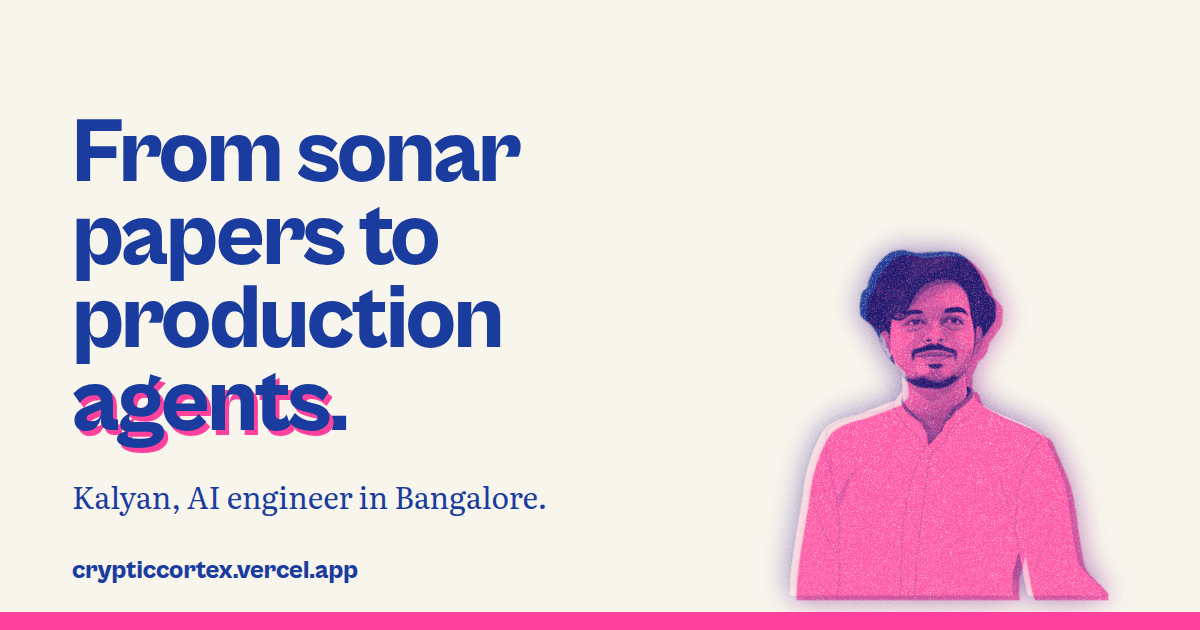
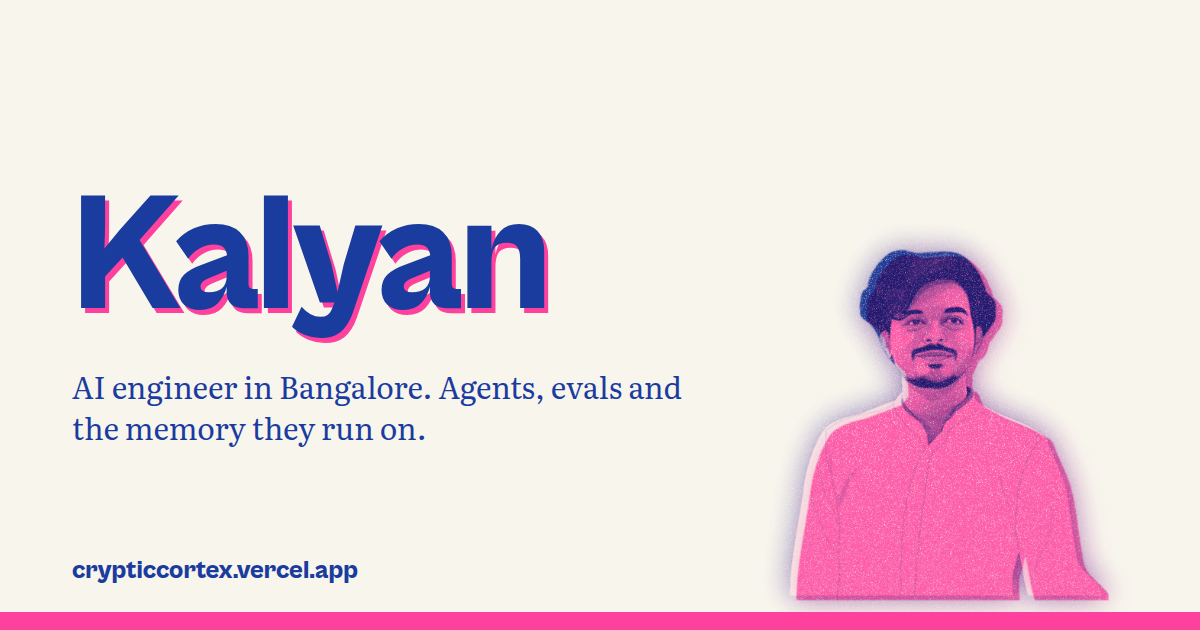
Portfolio structure instead of a product page
- Hero leads with the name (misregistered) and the portrait; no sales buttons
- Selected work as a numbered gallery of four riso covers, then a plain list
  of the other projects
- Experience, research and recognition read as a CV; ticker, the 80% poster
  figure and the chapter headlines are gone
- Close says hello; share card leads with the name

Changed region(s): [[0.0617, 0.181, 0.5858, 0.7238], [0.0617, 0.754, 0.4625, 0.8143]]

diff --git a/src/styles/globals.css b/src/styles/globals.css
@@ -1,4 +1,4 @@
-/* Hallmark · redesign: full · genre: editorial · theme: riso (deal: manual, chosen for textured print imagery) · job: hire · hero: Stage · nav: edge-aligned bar · footer: photograph close (Bangalore) + colophon · posture: committed · signature: Kalyan's portrait pulled in two drums, the pink silhouette a hair off register · imagery: photographs, library 3 + Commons 1 (Vidhana Soudha), duotone ink paper-2, grain baked in · waive 38iii (the misregistered word, once, hero) · v2.0.0 */
+/* Hallmark · redesign: full · genre: editorial · theme: riso (deal: manual, chosen for textured print imagery) · job: hire (portfolio) · hero: Settled, the name · nav: edge-aligned bar · footer: photograph close (Bangalore) + colophon · posture: committed · signature: Kalyan's name and portrait printed in two drums, the pink a hair off register · imagery: photographs, library 3 + Commons 1 (Vidhana Soudha), duotone ink paper-2, grain baked in · waive 38iii (the misregistered word, once, hero) · v2.0.0 */
 /* Hallmark · pre-emit critique: P4 H4 E4 S4 R4 V5 · weakest: S, the library photos are stand-ins for Kalyan's own; each sits on a chapter it names (memory, voice, research) and swaps by file */
 
 @font-face { font-family: "Cabinet Grotesk"; src: url("/fonts/cabinet-grotesk-800.woff2") format("woff2"); font-weight: 800; font-style: normal; font-display: swap; }
@@ -136,35 +136,7 @@ time, .nums { font-variant-numeric: tabular-nums lining-nums; }
 .section { padding-block: var(--section-gap) 0; }
 .section--l { padding-top: var(--section-gap-l); }
 .head { display: grid; grid-template-columns: minmax(0, 7fr) minmax(0, 5fr); gap: var(--gap-columns); align-items: end; margin-bottom: var(--space-2xl); }
-.head .lead { padding-bottom: var(--space-2xs); }
 @media (max-width: 60rem) { .head { grid-template-columns: minmax(0, 1fr); gap: var(--space-md); margin-bottom: var(--space-xl); } }
-
-/* showcase: one wide pull, two entries beneath */
-.wide img { width: 100%; aspect-ratio: 21 / 9; object-fit: cover; border-radius: var(--radius-card); background: var(--color-paper-2); }
-.wide figcaption { margin-top: var(--space-sm); }
-.pair { display: grid; grid-template-columns: minmax(0, 7fr) minmax(0, 5fr); gap: var(--gap-columns); margin-top: var(--space-2xl); }
-@media (max-width: 60rem) { .wide img { aspect-ratio: 4 / 3; } .pair { grid-template-columns: minmax(0, 1fr); gap: var(--space-xl); margin-top: var(--space-xl); } }
-
-.entry { display: grid; gap: var(--space-sm); align-content: start; border-top: var(--rule-ink) solid var(--color-ink); padding-top: var(--space-lg); }
-.entry--lead h3 { font-size: var(--text-display-s); line-height: 0.95; }
-.entry p { max-width: 58ch; color: var(--color-ink-2); }
-.entry .stack { font-size: var(--text-sm); color: var(--color-muted); }
-.entry a.more { justify-self: start; font: var(--display-weight) var(--text-sm)/1 var(--font-display); padding-block: var(--space-xs); }
-
-/* split: photo beside text */
-.split { display: grid; gap: var(--space-3xl); align-items: center; }
-.split--photo-left { grid-template-columns: minmax(0, 5fr) minmax(0, 7fr); }
-.split--photo-right { grid-template-columns: minmax(0, 6fr) minmax(0, 6fr); }
-.split__text { display: grid; gap: var(--space-xl); }
-.split__photo img { width: 100%; object-fit: cover; border-radius: var(--radius-card); background: var(--color-paper-2); }
-.split--photo-right .split__photo img { aspect-ratio: 4 / 5; }
-.split--photo-left .split__photo img { aspect-ratio: 3 / 4; max-height: 760px; }
-.split__photo figcaption { margin-top: var(--space-sm); }
-@media (max-width: 60rem) {
-  .split--photo-left, .split--photo-right { grid-template-columns: minmax(0, 1fr); gap: var(--space-xl); }
-  .split--photo-left .split__photo { order: 2; }
-  .split .split__photo img { aspect-ratio: 4 / 3; }
-}
 
 /* bands: one drum printed solid */
 .band { padding-block: var(--section-gap-s); margin-top: var(--section-gap); }
@@ -198,29 +170,6 @@ time, .nums { font-variant-numeric: tabular-nums lining-nums; }
 .rows h3 { font-size: 1.1875rem; line-height: 1.2; letter-spacing: -0.01em; }
 .rows .label { grid-column: 1; }
 .rows time { grid-column: 2; grid-row: 1; font: 500 var(--text-sm)/1.4 var(--font-body); color: var(--color-muted); }
-
-/* figures: two-ink overprint */
-.figures { display: grid; grid-template-columns: repeat(4, minmax(0, 1fr)); border-top: var(--rule-ink) solid var(--color-ink); }
-.figure { padding: var(--space-xl) var(--space-lg) var(--space-lg); border-left: var(--rule-hair) solid var(--color-rule); display: grid; gap: var(--space-sm); align-content: start; }
-.figure:first-child { border-left: 0; padding-left: 0; }
-.figure__num { position: relative; isolation: isolate; justify-self: start; font: var(--display-weight) var(--text-display)/0.9 var(--font-display); letter-spacing: -0.04em; font-variant-numeric: tabular-nums; }
-.figure__num::before { content: ""; position: absolute; z-index: 1; left: 38%; top: 18%; width: 0.62em; height: 0.62em; border-radius: 50%; background: var(--color-accent); mix-blend-mode: multiply; pointer-events: none; }
-.figure p { color: var(--color-ink-2); max-width: 26ch; }
-.also { display: grid; grid-template-columns: repeat(2, minmax(0, 1fr)); gap: var(--gap-columns); margin-top: var(--space-xl); }
-.also li { border-top: var(--rule-hair) solid var(--color-rule); padding-top: var(--space-md); display: grid; gap: var(--space-2xs); }
-@media (max-width: 60rem) {
-  .figures { grid-template-columns: repeat(2, minmax(0, 1fr)); }
-  .figure:nth-child(odd) { border-left: 0; padding-left: 0; }
-  .figure:nth-child(n + 3) { border-top: var(--rule-hair) solid var(--color-rule); }
-  .also { grid-template-columns: minmax(0, 1fr); gap: var(--space-md); }
-}
-
-/* what I take on */
-.dl { display: grid; grid-template-columns: repeat(2, minmax(0, 1fr)); gap: 0 var(--gap-columns); border-top: var(--rule-ink) solid var(--color-ink); }
-.dl > div { padding-block: var(--space-lg); border-bottom: var(--rule-hair) solid var(--color-rule); display: grid; gap: var(--space-xs); }
-.dl dt { font: var(--display-weight) var(--text-title)/1.1 var(--font-display); letter-spacing: -0.015em; }
-.dl dd { color: var(--color-ink-2); max-width: 52ch; }
-@media (max-width: 60rem) { .dl { grid-template-columns: minmax(0, 1fr); } }
 
 /* close: Bangalore at night, the words knocked out of the sky */
 .close { position: relative; isolation: isolate; margin-top: var(--section-gap); min-height: min(88svh, 820px); display: grid; align-content: space-between; padding-block: var(--section-gap-s) var(--space-lg); background: var(--color-ink); color: var(--color-paper); overflow: hidden; }
@@ -269,40 +218,35 @@ time, .nums { font-variant-numeric: tabular-nums lining-nums; }
 @keyframes drum-blue { from { opacity: 0; transform: translateY(8px); } to { opacity: 1; transform: none; } }
 @keyframes drum-pink { from { opacity: 0; transform: translate(-7%, 0.9%); } to { opacity: 1; transform: translate(1.6%, 0.9%); } }
 
-/* stack ticker: the pink drum printed solid, words run past */
-.ticker { position: relative; display: flex; align-items: center; background: var(--color-accent); color: var(--color-accent-ink); border-block: var(--rule-ink) solid var(--color-ink); }
-.ticker__window { flex: 1; min-width: 0; overflow: hidden; }
-.ticker__track { display: flex; width: max-content; animation: ticker 60s linear infinite; }
-.ticker li { display: flex; align-items: center; gap: var(--space-lg); padding: var(--space-md) 0 var(--space-md) var(--space-lg); font: var(--display-weight) clamp(1.375rem, 2.4vw, 2rem)/1 var(--font-display); letter-spacing: -0.02em; white-space: nowrap; }
-.ticker li i { width: 0.42em; height: 0.42em; border-radius: 50%; background: var(--color-ink); mix-blend-mode: multiply; }
-.ticker:hover .ticker__track, .ticker:focus-within .ticker__track, .ticker[data-paused="true"] .ticker__track { animation-play-state: paused; }
-.ticker__toggle { flex-shrink: 0; align-self: stretch; min-width: 88px; padding: 0 var(--space-md); border: 0; border-left: var(--rule-ink) solid var(--color-ink); background: var(--color-paper); color: var(--color-ink); font: var(--display-weight) var(--text-sm)/1 var(--font-display); cursor: pointer; transition: background-color var(--dur-short) var(--ease-out); }
-.ticker__toggle:hover { background: var(--color-paper-2); }
-.ticker__toggle:active { transform: translate(1px, 1px); }
-@keyframes ticker { to { transform: translateX(-50%); } }
-
-/* the reading: one measured result set at poster size */
-.head--reading { align-items: center; }
-.reading { display: grid; justify-items: start; }
-.reading__was { font: var(--display-weight) var(--text-display-s)/1 var(--font-display); color: var(--color-muted); letter-spacing: -0.03em; }
-.reading__was s { text-decoration-color: var(--color-accent); text-decoration-thickness: 0.12em; }
-.reading__now { position: relative; isolation: isolate; font: var(--display-weight) clamp(6rem, 15vw, 13rem)/0.82 var(--font-display); letter-spacing: -0.05em; margin-bottom: var(--space-md); }
-.reading__now::before { content: ""; position: absolute; z-index: 1; left: 30%; top: 8%; width: 0.7em; height: 0.7em; border-radius: 50%; background: var(--color-accent); mix-blend-mode: multiply; pointer-events: none; }
-.reading .label { max-width: 32ch; }
-
-/* the record on a light pink screen: a change of paper breaks the long text run */
-.screen { margin-top: var(--section-gap); padding-block: var(--section-gap-s); background: var(--color-paper-2); }
-.screen .trail > li { border-top-color: var(--color-paper-3); }
-.screen .trail > li:first-child { border-top-color: var(--color-ink); }
-.screen + .section { padding-top: var(--section-gap); }
-
-/* prize dots land as they scroll in (browsers with scroll timelines; static elsewhere) */
-@supports (animation-timeline: view()) {
-  .figure__num::before { animation: land linear both; animation-timeline: view(); animation-range: entry 20% cover 45%; }
-  @keyframes land { from { opacity: 0; transform: translate(-60%, -40%) scale(0.3); } to { opacity: 1; transform: none; } }
-}
-
 @media (prefers-reduced-motion: reduce) {
-  .plate__blue, .plate__pink, .ticker__track, .figure__num::before { animation: none !important; }
-  .ticker__window { overflow-x: auto; }
+  .plate__blue, .plate__pink { animation: none !important; }
 }
+
+/* ---------- portfolio ---------- */
+.name { font-size: clamp(5rem, 14vw, 12rem); line-height: 0.85; letter-spacing: -0.045em; max-width: none; }
+.hero__text .lead { font-size: clamp(1.25rem, 2vw, 1.625rem); max-width: 30ch; }
+.hero__facts { color: var(--color-muted); max-width: 44ch; }
+.hero__grid { grid-template-columns: minmax(0, 7fr) minmax(0, 5fr); min-height: calc(100svh - 68px - var(--space-2xl)); }
+.hero { padding-bottom: 0; }
+@media (max-width: 60rem) { .hero__grid { grid-template-columns: minmax(0, 1fr); min-height: 0; } .hero .pull { max-width: 320px; } }
+
+.section-title { font-size: var(--text-section); margin-bottom: var(--space-2xl); }
+@media (max-width: 60rem) { .section-title { margin-bottom: var(--space-xl); } }
+
+.gallery { display: grid; grid-template-columns: repeat(2, minmax(0, 1fr)); gap: var(--space-3xl) var(--gap-columns); counter-reset: work; }
+.work { display: grid; gap: var(--space-lg); align-content: start; counter-increment: work; }
+.work:nth-child(even) { margin-top: var(--space-3xl); }
+.work__cover img { width: 100%; aspect-ratio: 4 / 3; object-fit: cover; border-radius: var(--radius-card); background: var(--color-paper-2); }
+.work__text { display: grid; gap: var(--space-sm); justify-items: start; }
+.work__text h3 { font-size: var(--text-display-s); line-height: 0.95; display: flex; align-items: baseline; gap: var(--space-md); }
+.work__text h3::before { content: counter(work, decimal-leading-zero); font-size: var(--text-sm); letter-spacing: 0; color: var(--color-muted); font-family: var(--font-body); font-weight: 500; font-variant-numeric: tabular-nums; }
+.work__text p { color: var(--color-ink-2); max-width: 52ch; }
+.work__text a { font: var(--display-weight) var(--text-sm)/1 var(--font-display); padding-block: var(--space-xs); }
+@media (max-width: 60rem) { .gallery { grid-template-columns: minmax(0, 1fr); gap: var(--space-2xl); } .work:nth-child(even) { margin-top: 0; } }
+
+.more-title { font-size: var(--text-title); margin: var(--space-4xl) 0 var(--space-lg); }
+.index h4 { font: var(--display-weight) var(--text-title)/1.1 var(--font-display); letter-spacing: -0.015em; margin: 0; }
+
+.columns { display: grid; grid-template-columns: minmax(0, 7fr) minmax(0, 5fr); gap: var(--space-3xl); align-items: start; }
+@media (max-width: 60rem) { .columns { grid-template-columns: minmax(0, 1fr); gap: var(--section-gap-s); } }
+.section:last-of-type { padding-bottom: 0; }

diff --git a/src/app/page.js b/src/app/page.js
@@ -1,108 +1,62 @@
 import Image from 'next/image';
-import Ticker from '@/components/Ticker';
-import { profile, experience, projects, publications, achievements, stack } from '@/data/profile';
+import { profile, experience, projects, publications, achievements } from '@/data/profile';
 import portraitBlue from '../../public/print/kalyan-blue.webp';
 import portraitPink from '../../public/print/kalyan-pink.webp';
 import memory from '../../public/print/memory.webp';
 import voice from '../../public/print/voice.webp';
+import servers from '../../public/print/servers.webp';
 import microscope from '../../public/print/research.webp';
 
+const covers = { agam: memory, 'Voice FNOL': voice, 'Cognitive OS': servers, MedGPT: microscope };
+const featured = ['agam', 'Voice FNOL', 'Cognitive OS', 'MedGPT'];
 const byName = (n) => projects.find((p) => p.name === n);
 
-function Entry({ p, lead = false }) {
-  return (
-    <article className={`entry${lead ? ' entry--lead' : ''}`}>
-      <h3>{p.name}</h3>
-      <p>{p.blurb}</p>
-      <p className="stack">{p.stack.join(', ')}</p>
-      {p.url && <a className="more" href={p.url} target="_blank" rel="noopener noreferrer">Read the code on GitHub</a>}
-    </article>
-  );
-}
-
 export default function Home() {
-  const more = ['MedGPT', 'Kanaku', 'SheLaw', 'JobScrapper'].map(byName);
-  const tools = [...new Set(stack.flatMap(([, items]) => items))];
-  const [first, second, sixth, organizer, bootcamp, certified] = achievements;
+  const more = projects.filter((p) => !featured.includes(p.name));
   return (
     <>
-      {/* hero: Stage */}
+      {/* hero: the person */}
       <section className="hero">
         <div className="container hero__grid">
           <div className="hero__text">
-            <h1>From sonar papers to production <span className="misreg" data-text="agents">agents</span>.</h1>
-            <p className="lead">I’m Kalyan, {profile.title} at Guidewire in Bangalore. I build agents, the evals that judge them, and the memory they run on.</p>
-            <div className="actions">
-              <a className="btn btn--primary" href={`mailto:${profile.email}`}>Email me</a>
-              <a className="btn btn--secondary" href="#work">See the work</a>
-            </div>
+            <h1 className="name"><span className="misreg" data-text="Kalyan">Kalyan</span></h1>
+            <p className="lead">AI engineer in Bangalore. I build agents, the evals that judge them, and the memory they run on.</p>
+            <p className="hero__facts">{profile.title} at Guidewire. Before that, research at IISc Bangalore and Amrita University.</p>
           </div>
           <figure className="pull">
             <div className="plate" role="img" aria-label="Portrait of Kalyan">
               <Image className="plate__blue" src={portraitBlue} alt="" priority sizes="(max-width: 60rem) 360px, 40vw" />
               <Image className="plate__pink" src={portraitPink} alt="" priority sizes="(max-width: 60rem) 360px, 40vw" />
             </div>
-            <figcaption className="label">Kalyan, printed in two drums.</figcaption>
           </figure>
         </div>
       </section>
 
-      <Ticker items={tools} />
-
-      {/* memory: showcase */}
-      <section className="section" id="work" aria-labelledby="memory-title">
+      {/* selected work: a gallery of covers, then the rest as a list */}
+      <section className="section" id="work" aria-labelledby="work-title">
         <div className="container">
-          <div className="head">
-            <h2 id="memory-title">Memory for agents that write code</h2>
-            <p className="lead">Coding agents forget everything between sessions. These two remember for them.</p>
-          </div>
-          <figure className="wide">
-            <Image src={memory} alt="" sizes="(max-width: 90rem) 100vw, 1312px" />
-          </figure>
-          <div className="pair">
-            <Entry p={byName('agam')} lead />
-            <Entry p={byName('Cognitive OS')} />
-          </div>
-        </div>
-      </section>
+          <h2 id="work-title" className="section-title">Selected work</h2>
+          <ol className="gallery">
+            {featured.map(byName).map((p) => (
+              <li key={p.name} className="work">
+                <figure className="work__cover">
+                  <Image src={covers[p.name]} alt="" sizes="(max-width: 60rem) 100vw, 50vw" />
+                </figure>
+                <div className="work__text">
+                  <h3>{p.name}</h3>
+                  <p>{p.blurb}</p>
+                  <p className="label">{p.stack.join(', ')}</p>
+                  {p.url && <a href={p.url} target="_blank" rel="noopener noreferrer">Code on GitHub</a>}
+                </div>
+              </li>
+            ))}
+          </ol>
 
-      {/* statement band */}
-      <section className="band band--blue grained" aria-label="How I work">
-        <div className="container">
-          <p className="statement">I build systems that think, remember and ship. Everything else is configuration.</p>
-          <p className="small">Research papers before graduation, production AI after.</p>
-        </div>
-      </section>
-
-      {/* voice: split, photo right */}
-      <section className="section" aria-labelledby="voice-title">
-        <div className="container split split--photo-right">
-          <div className="split__text">
-            <h2 id="voice-title">Claims and calls, taken by voice</h2>
-            <Entry p={byName('Voice FNOL')} lead />
-            <Entry p={byName('VoiceAI')} />
-          </div>
-          <figure className="split__photo">
-            <Image src={voice} alt="" sizes="(max-width: 60rem) 100vw, 50vw" />
-          </figure>
-        </div>
-      </section>
-
-      {/* more work: index */}
-      <section className="section" aria-labelledby="more-title">
-        <div className="container">
-          <div className="head head--reading">
-            <h2 id="more-title">For hospitals, shops and courts</h2>
-            <div className="reading">
-              <p className="reading__was"><s>30%</s> <span className="sr-only">to</span></p>
-              <p className="reading__now nums">80%</p>
-              <p className="label">MedGPT diagnostic accuracy, up from 30%. Deployed at AIMS Kochi Hospital.</p>
-            </div>
-          </div>
-          <ol className="index">
+          <h3 className="more-title">More projects</h3>
+          <ul className="index">
             {more.map((p) => (
               <li key={p.name}>
-                <h3>{p.name}</h3>
+                <h4>{p.name}</h4>
                 <p>{p.blurb}</p>
                 <div className="meta">
                   <span className="label">{p.stack.join(', ')}</span>
@@ -110,16 +64,22 @@ export default function Home() {
                 </div>
               </li>
             ))}
-          </ol>
+          </ul>
         </div>
       </section>
 
-      {/* record: trail */}
-      <section className="screen" id="record" aria-labelledby="record-title">
+      {/* in my words */}
+      <section className="band band--blue grained" aria-label="In my words">
         <div className="container">
-          <div className="head">
-            <h2 id="record-title">Four roles, research to production</h2>
-          </div>
+          <p className="statement">I build systems that think, remember and ship. Everything else is configuration.</p>
+          <p className="small">Research papers before graduation, production AI after.</p>
+        </div>
+      </section>
+
+      {/* experience */}
+      <section className="section" id="experience" aria-labelledby="exp-title">
+        <div className="container">
+          <h2 id="exp-title" className="section-title">Experience</h2>
           <ol className="trail">
             {experience.map((e) => (
               <li key={e.org}>
@@ -134,14 +94,11 @@ export default function Home() {
         </div>
       </section>
 
-      {/* research: split, photo left */}
-      <section className="section section--l" aria-labelledby="research-title">
-        <div className="container split split--photo-left">
-          <figure className="split__photo">
-            <Image src={microscope} alt="" sizes="(max-width: 60rem) 100vw, 40vw" />
-          </figure>
-          <div className="split__text">
-            <h2 id="research-title">Five papers, one underway</h2>
+      {/* research + recognition side by side */}
+      <section className="section" aria-label="Research and recognition">
+        <div className="container columns">
+          <div>
+            <h2 className="section-title">Research</h2>
             <ol className="rows">
               {publications.map(([title, org, when]) => (
                 <li key={title}>
@@ -152,25 +109,18 @@ export default function Home() {
               ))}
             </ol>
           </div>
-        </div>
-      </section>
-
-      {/* milestones: overprinted figures */}
-      <section className="section section--l" aria-labelledby="prize-title">
-        <div className="container">
-          <div className="head">
-            <h2 id="prize-title">Prizes, panels and a bootcamp</h2>
+          <div>
+            <h2 className="section-title">Recognition</h2>
+            <ul className="rows">
+              {achievements.map(([what, where, when]) => (
+                <li key={what + where}>
+                  <h3>{what}</h3>
+                  <span className="label">{where}</span>
+                  <time>{when}</time>
+                </li>
+              ))}
+            </ul>
           </div>
-          <div className="figures">
-            <div className="figure"><span className="figure__num">1st</span><p>{first[1]}, <time>{first[2]}</time></p></div>
-            <div className="figure"><span className="figure__num">2nd</span><p>{second[1]}, <time>{second[2]}</time></p></div>
-            <div className="figure"><span className="figure__num">6th</span><p>{sixth[1]}, <time>{sixth[2]}</time></p></div>
-            <div className="figure"><span className="figure__num">500+</span><p>Participants in the ML Bootcamp I co-led, <time>{bootcamp[2]}</time></p></div>
-          </div>
-          <ul className="also">
-            <li><strong>{organizer[0]}</strong><span className="label">{organizer[1]}, <time>{organizer[2]}</time></span></li>
-            <li><strong>{certified[0]}</strong><span className="label">{certified[1]}, <time>{certified[2]}</time></span></li>
-          </ul>
         </div>
       </section>
     </>

diff --git a/src/components/Footer.js b/src/components/Footer.js
@@ -11,7 +11,7 @@ export default function Footer() {
         <div className="close__scrim" aria-hidden="true" />
         <div className="container close__grid">
           <div>
-            <h2 id="close-title">Building agents? Write to me.</h2>
+            <h2 id="close-title">Say hello.</h2>
             <a className="close__mail" href={`mailto:${profile.email}`}>{profile.email}</a>
           </div>
           <div className="close__links">
@@ -32,7 +32,7 @@ export default function Footer() {
             </nav>
           </div>
           <p className="small" data-credits>
-            Photographs, reprinted in two inks: Vidhana Soudha by DeepanjanGhosh (CC BY-SA 4.0), microphone by Will Fisher (CC BY-SA 2.0), George Peabody Library by Matthew Petroff (CC BY-SA 3.0), Nachet microscope by Didier Descouens (CC BY-SA 4.0), all via Wikimedia Commons.
+            Photographs, reprinted in two inks: Vidhana Soudha by DeepanjanGhosh (CC BY-SA 4.0), microphone by Will Fisher (CC BY-SA 2.0), George Peabody Library by Matthew Petroff (CC BY-SA 3.0), Nachet microscope by Didier Descouens (CC BY-SA 4.0), server racks by NOIRLab/NSF/AURA/T. Slovinský (CC BY 4.0), all via Wikimedia Commons.
           </p>
         </div>
       </footer>

diff --git a/src/components/Nav.js b/src/components/Nav.js
@@ -3,7 +3,7 @@ import { profile } from '@/data/profile';
 
 const links = [
   ['/#work', 'Work'],
-  ['/#record', 'Record'],
+  ['/#experience', 'Experience'],
   ['/research', 'Research'],
   ['/stack', 'Stack'],
   ['/education', 'Education'],
